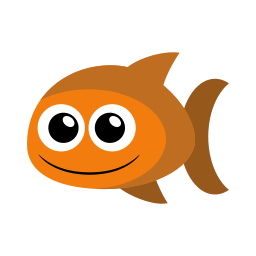
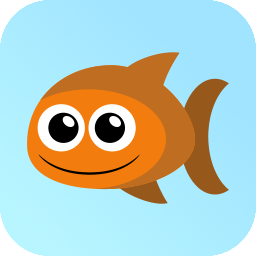
icone et splash screen plus beaux

diff --git a/src/pages/housework/housework.ts b/src/pages/housework/housework.ts
@@ -8,9 +8,10 @@ import { Storage } from '@ionic/storage';
 export class HouseworkPage {
 
   public housework = [];
+  public meanPercentage = 0;
 
   constructor(private storage:Storage) {
-    /*storage.ready().then(() => {
+    storage.ready().then(() => {
       storage.get('housework').then((val) => {
         if (val) {
           this.housework = JSON.parse(val);
@@ -19,14 +20,30 @@ export class HouseworkPage {
           }
         }else{
           this.initHousework();
+          this.saveHousework();
         }
+        this.initPercentages();
       });
-    });*/
-    this.initHousework();
-    console.log(this.housework);
+    });
+    
+  }
+
+  initPercentages() {
+    let sum = 0;
+    for (let i=0; i<this.housework.length; i++) {
+      let deadline = this.getDeadline(this.housework[i].name);
+      console.log(new Date().getTime()-this.housework[i].date.getTime()+deadline);
+      this.housework[i].percentage = Math.max(0,Math.round((this.housework[i].date.getTime()-new Date().getTime()+deadline)/deadline*100));
+      sum += this.housework[i].percentage;
+    }
+    this.meanPercentage = Math.round(sum/this.housework.length);
   }
 
   saveHousework() {
+    let houseWorkToSave = this.housework;
+    for (let i=0; i<this.housework.length; i++) {
+      delete houseWorkToSave[i].percentage;
+    }
     this.storage.set('housework', JSON.stringify(this.housework));
   }
 
@@ -43,6 +60,16 @@ export class HouseworkPage {
         date: new Date()
       }
     );
+  }
+
+  getDeadline(housework) {
+    let day = 24*60*60*1000;
+    switch (housework) {
+      case 'Vaisselle': return 2*day;
+      case 'Balayage' : return 4*day;
+      case 'Nettoyage du sol': return 8*day;
+      default: return 0;
+    }
   }
 
 }

diff --git a/src/components/progress-bar/progress-bar.scss b/src/components/progress-bar/progress-bar.scss
@@ -7,15 +7,14 @@ progress-bar {
         background-color: #f4f4f4;
         border: 1px solid #dcdcdc;
         color: #fff;
-        border-radius: 20px;
+        border-radius: 6px;
     }
  
     .progress-inner {
-        min-width: 15%;
         white-space: nowrap;
         overflow: hidden;
-        padding: 5px;
-        border-radius: 20px;
+        padding: 3px;
+        border-radius: 6px;
         background-color: map-get($colors, primary);
     }
  

diff --git a/src/pages/housework/housework.html b/src/pages/housework/housework.html
@@ -11,13 +11,13 @@
     <ion-item>
       Général
       <div>
-        <progress-bar [progress]=69></progress-bar>
+        <progress-bar [progress]=meanPercentage></progress-bar>
       </div>
     </ion-item>
     <ion-item *ngFor="let item of housework">
       {{item.name}}
       <div>
-        <progress-bar [progress]=32></progress-bar>
+        <progress-bar [progress]="item.percentage"></progress-bar>
       </div>
     </ion-item>
   </ion-list>

diff --git a/src/components/progress-bar/progress-bar.ts b/src/components/progress-bar/progress-bar.ts
@@ -18,7 +18,7 @@ export class ProgressBarComponent {
     }
 
   updateBarColor() {
-    console.log("progress: "+this.progress);
+    console.log(this.progress);
     if (this.progress > 66) {
       this.barColor = "green";
     } else if (this.progress > 33) {
